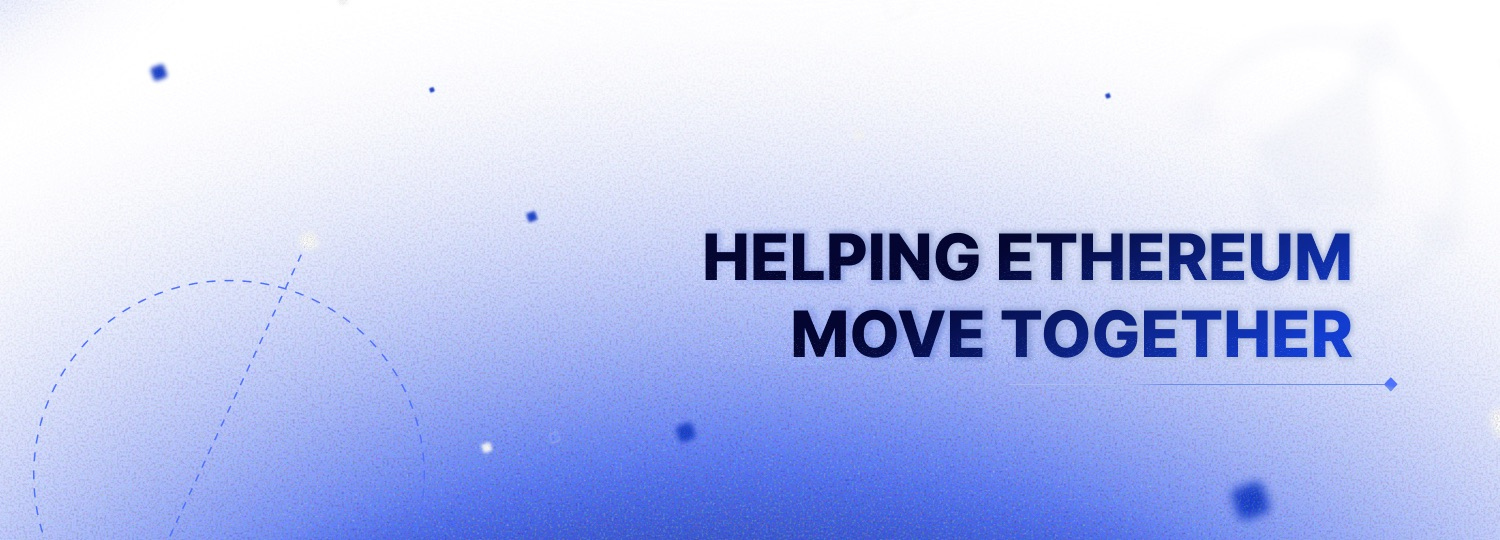
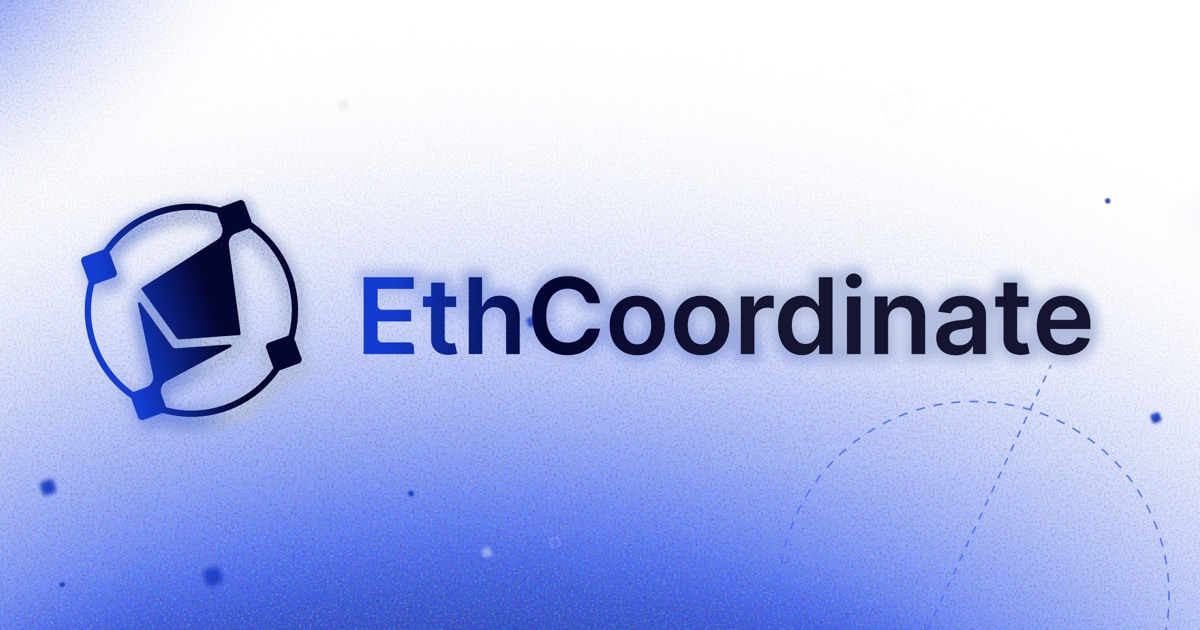
chore(seo): replace the og image with the new figma export
Claude-Session: https://claude.ai/code/session_01YM9ZGYwacU2E6UqKm5iZ3g

diff --git a/src/site.ts b/src/site.ts
@@ -16,9 +16,9 @@ export const site = {
 		title: "EthCoordinate — A coordination engine for Ethereum",
 		description:
 			"Providing support for governance operations, facilitating stakeholder engagement, and maintaining home staking tooling & software.",
-		/* Exported from the Figma "X cover" frame. Lives in public/. */
+		/* Exported from the Figma "OG image" frame. Lives in public/. */
 		image: "/og.jpg",
-		imageAlt: "Helping Ethereum move together",
+		imageAlt: "EthCoordinate",
 		twitter: "@ethcoordinate",
 	},
 	home: "Back to top",
